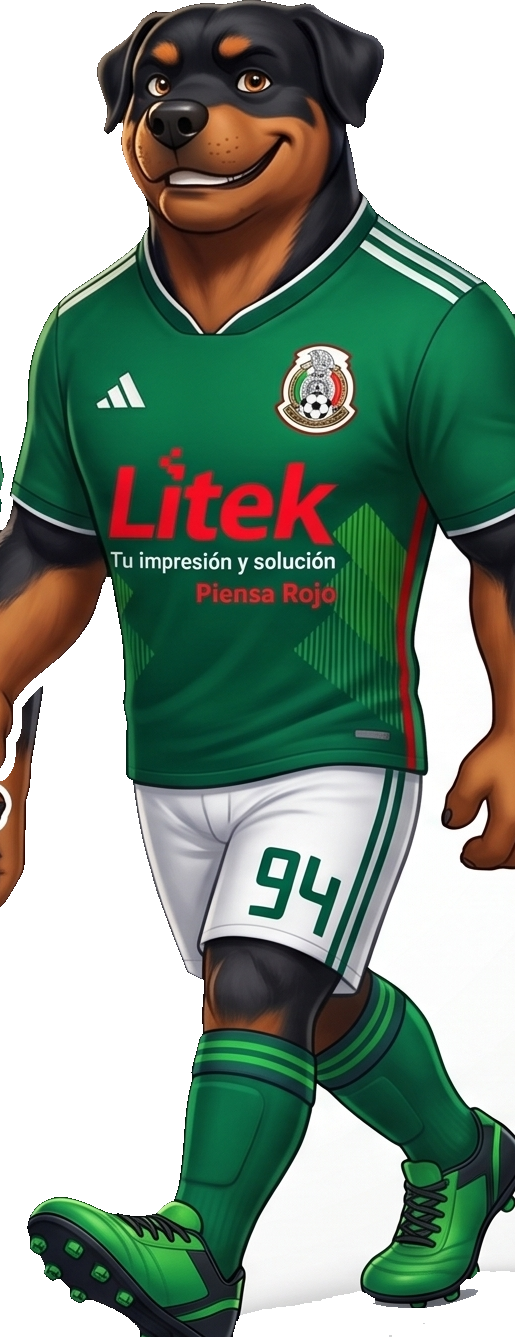
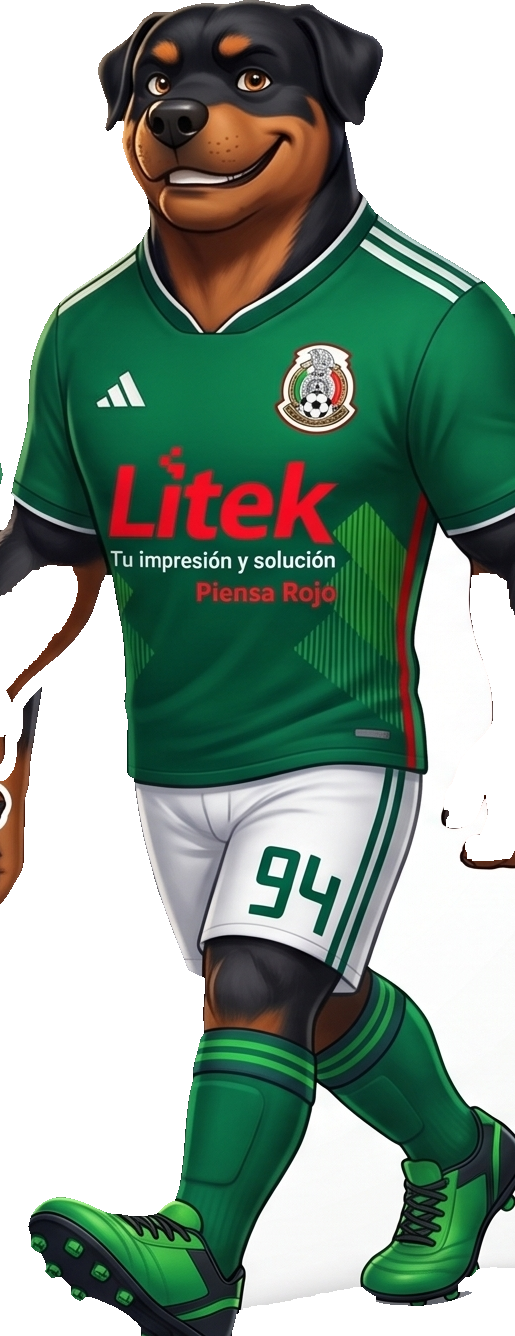
fix(gol): mascota v3 sin halo blanco (defringe + erosión) + URL v=3

diff --git a/web/juego_gol.html b/web/juego_gol.html
@@ -10,7 +10,7 @@
 
   var CLIO_API = "https://litek-clio-whatsapp-production.up.railway.app";
   var WA_CLIO  = "5219845576964"; // WhatsApp de Clio para el cup\u00f3n
-  var MASCOTA  = "https://raw.githubusercontent.com/litekred-bot/litek-clio-whatsapp/main/knowledge/mascota_gol.png?v=2";
+  var MASCOTA  = "https://raw.githubusercontent.com/litekred-bot/litek-clio-whatsapp/main/knowledge/mascota_gol.png?v=3";
 
   // Premios (peso = probabilidad relativa). Lona 75\u00d775 \u22481/70, Lona $39 \u22481/50.
   var PREMIOS = [
